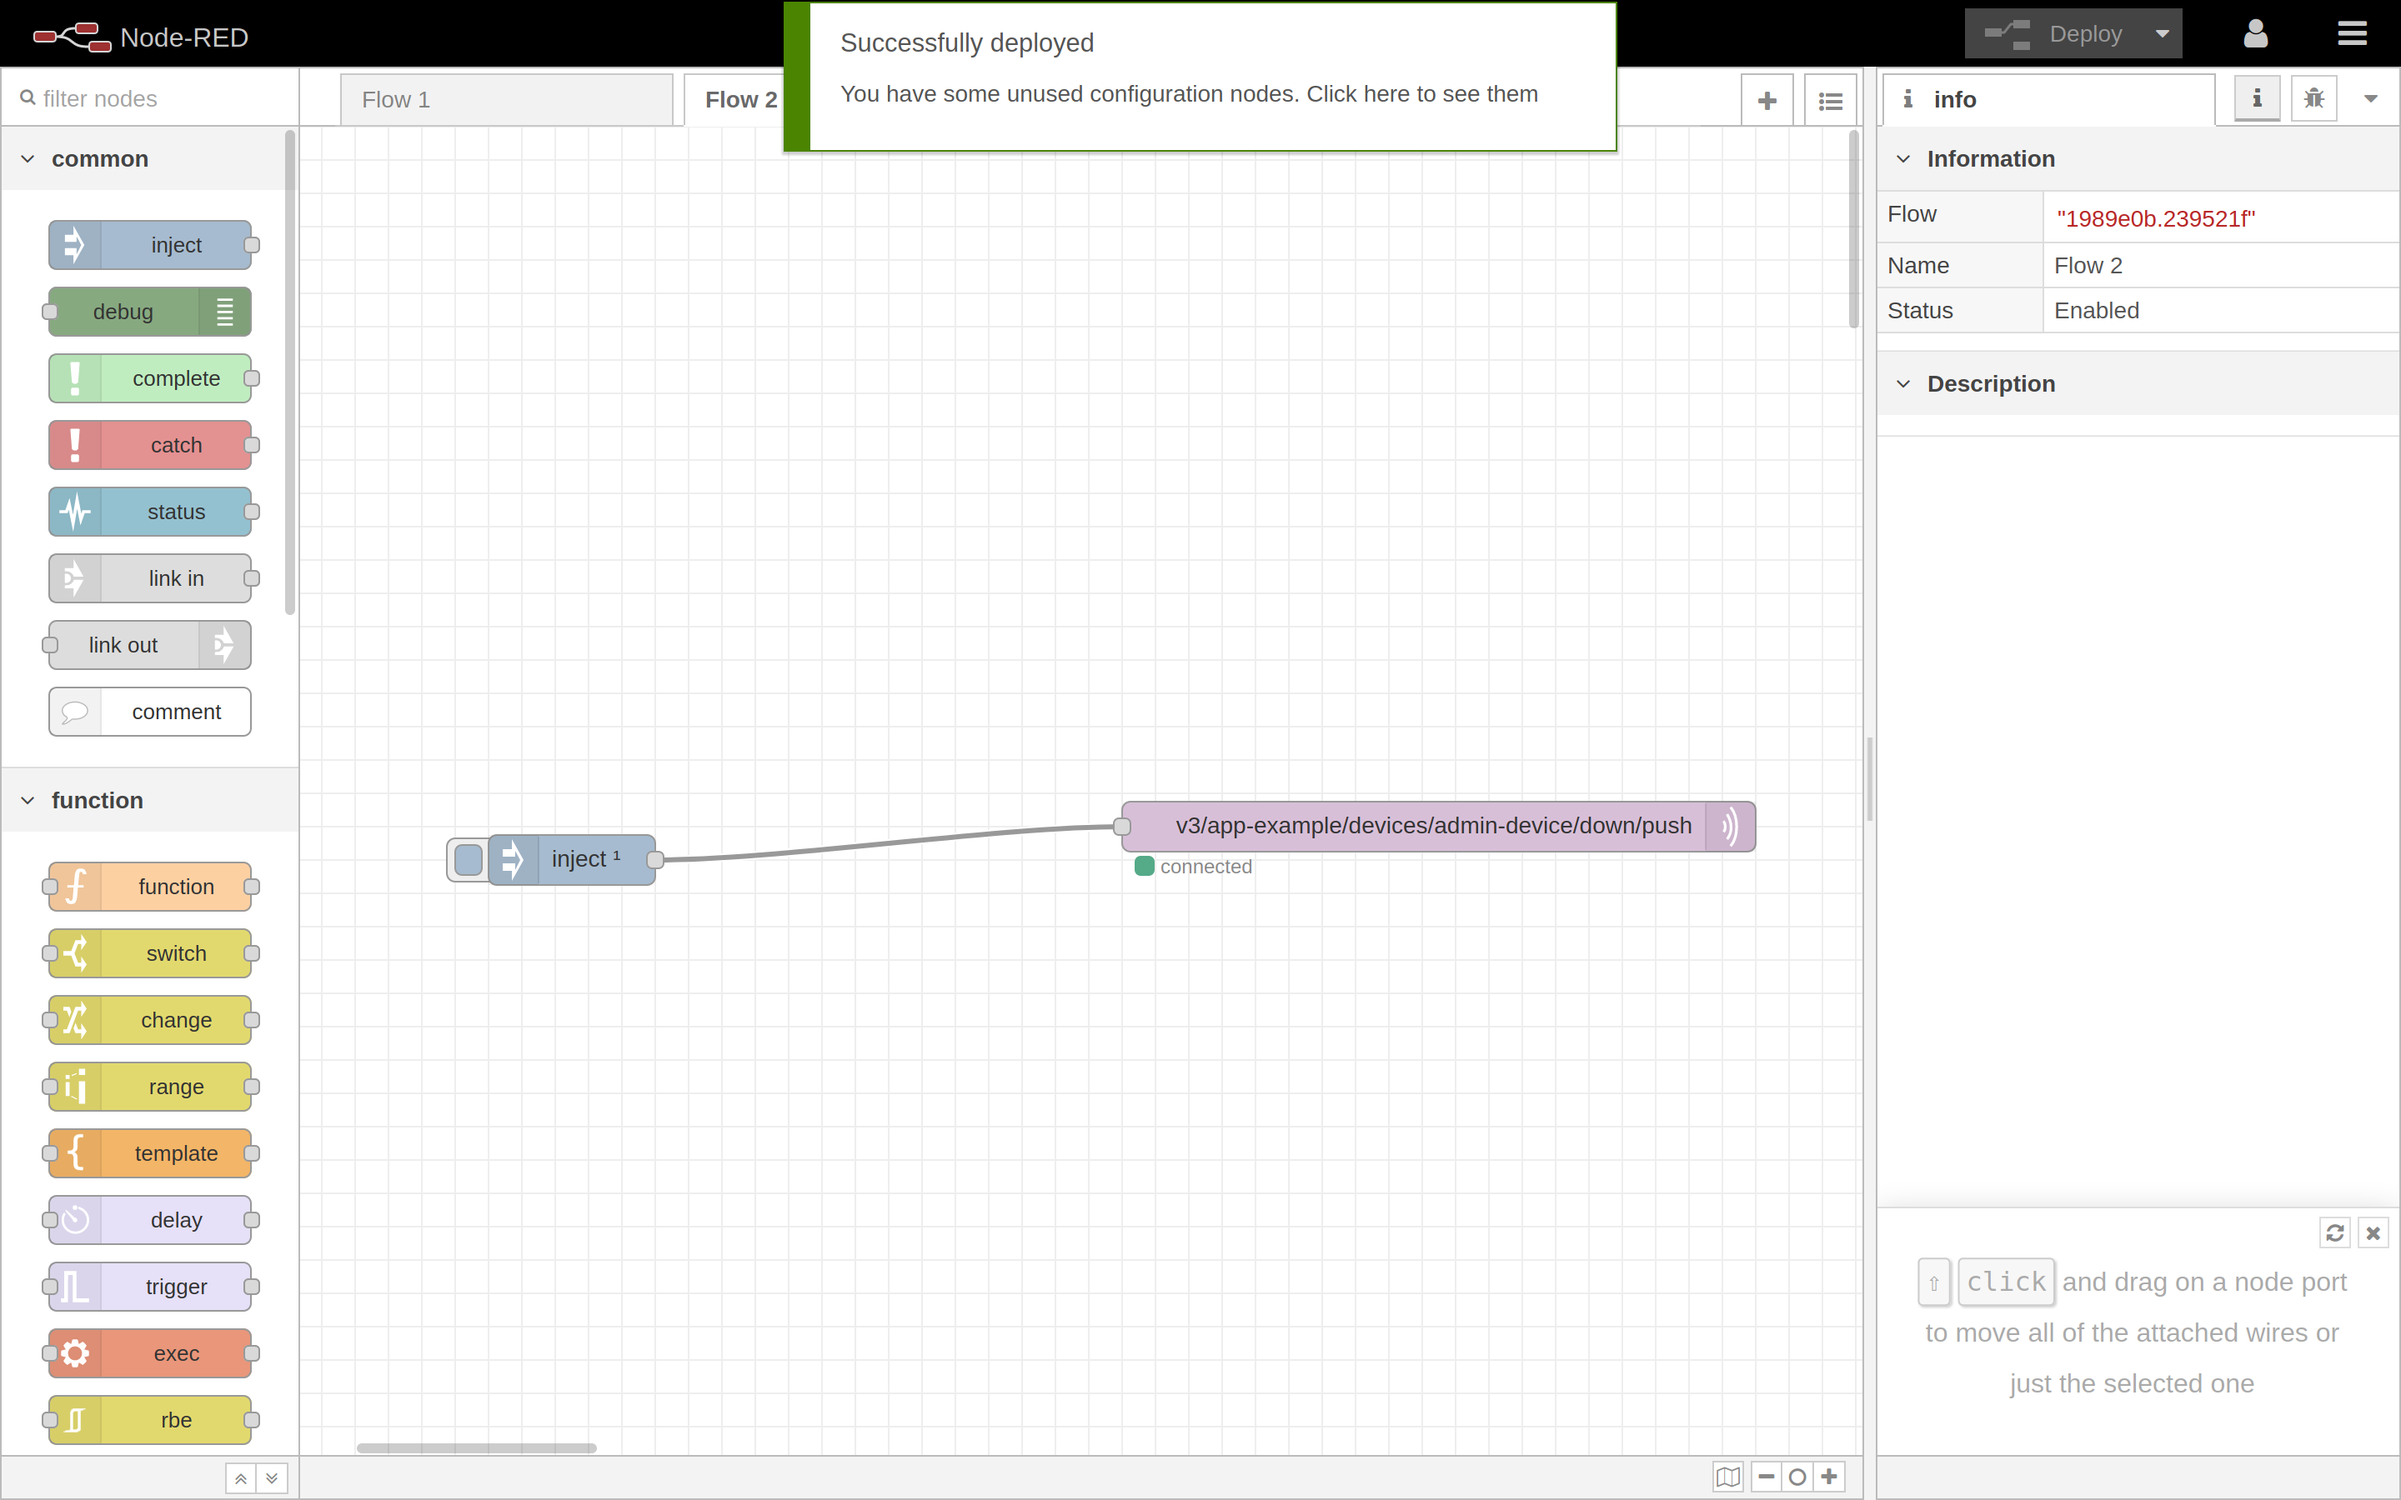
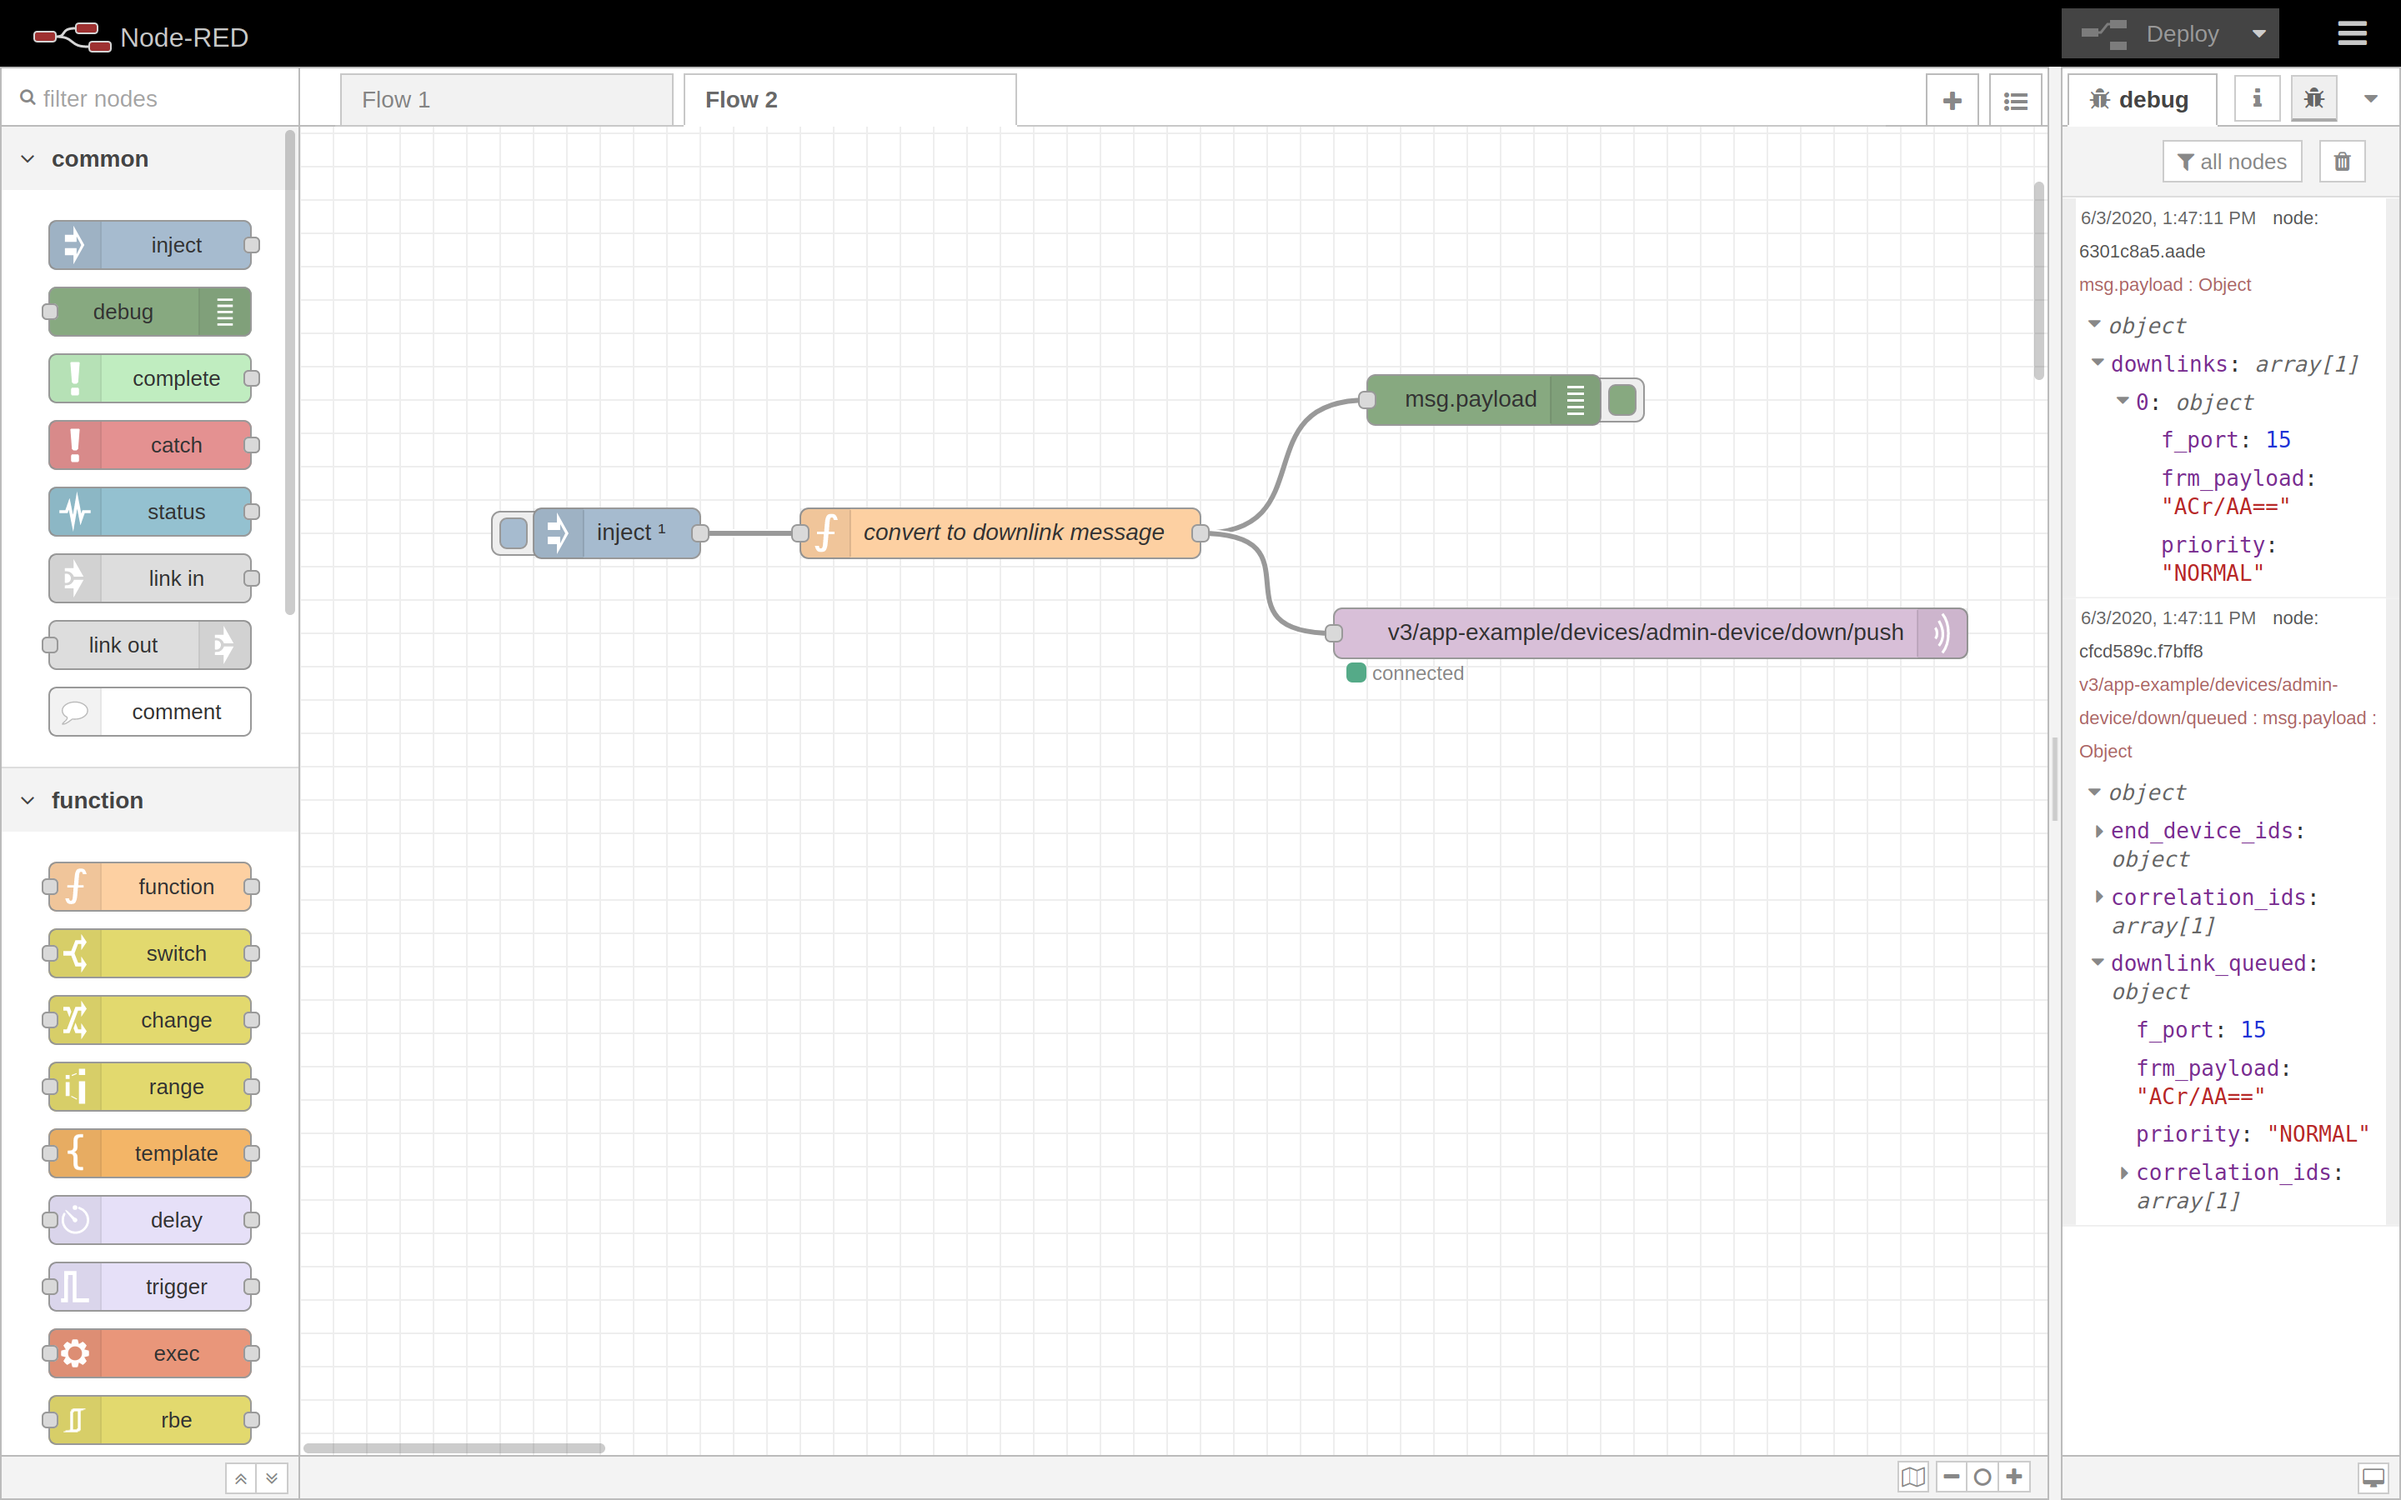
doc: Add bulletpoints, fix and shorten the text

diff --git a/doc/content/integrations/node-red/receive/_index.md b/doc/content/integrations/node-red/receive/_index.md
@@ -8,28 +8,38 @@ This section follows the process of setting up a flow which subscribes and liste
 
 ## Configure MQTT In Node
 
-Find the **mqtt in** node in the library section and place it on the flow dashboard. This node connects to the MQTT broker and subscribes to messages from the specified topic. Double-click on the node to configure its properties.
+1. Place the **mqtt in** node on the dashboard. Double-click on the node to configure its properties.
 
-{{< figure src="mqtt_in_node_properties.png" alt="mqtt in node properties" >}}
+2. In the **Server** dropdown menu, select **Add new mqtt-broker** and click on the button besides to edit it. 
 
-In the **Server** dropdown menu, select **Add new mqtt-broker** and click on the button besides to edit it. 
+3. In the **Connection** tab, under **Server**, provide the MQTT Server address from {{% tts %}} Console. 
+
+>Note: in this example, TLS-secured connection is to be established, so the **Port** value is set to 8883. In this case you should also check the **Enable secure (SSL/TLS) connection** box.
 
 {{< figure src="mqtt_in_node_connection.png" alt="Configuring MQTT Server connection information" >}}
 
-In the **Connection** tab, under **Server**, provide the MQTT Server address from {{% tts %}} Console. The **Port** value depends on whether the connection is to be set up as a secure one or not. In this example, TLS is used, so the **Port** value is set to 8883. In this case you should also check the **Enable secure (SSL/TLS) connection** box.
+4. In the **Security** tab, enter the **Username** and **Password** according to the values in {{% tts %}} Console.
 
 {{< figure src="mqtt_in_node_security.png" alt="Configuring MQTT Server credentials" >}}
 
-In the **Security** tab, enter the **Username** and **Password** according to the values in {{% tts %}} Console.
+5. Go back to **Properties** and set the **Topic** value to `#` (to listen to all topics). 
 
-Under **Topic**, a topic to listen to can be specified. For testing purposes, we will set the value to "#" (all topics). The **QoS** value can be selected from the listed options, as well as the **Output**. In this example, we want to see each message as **a parsed JSON object**. A full list of topics that you can subscribe to is mentioned in [MQTT Server]({{< ref "/integrations/mqtt" >}}) guide.
+>Note: a full list of topics that you can subscribe to is mentioned in [MQTT Server]({{< ref "/integrations/mqtt" >}}) guide. 
 
-Next, add two **debug** nodes to the flow and connect both of them to the **mqtt in** node. One debug node will listen to the events, while the other will listen to published messages. To make this happen, set the **Output** parameter for the first debug node configuration to **complete msg object** value, and to **msg.payload** for the other.
+6. Select the **QoS** value from the listed options and set **Output** parameter to **a parsed JSON object**. 
 
-To listen to uplink messages coming from end devices, subscribe to `v3/{application_id}/devices/{device_id}/up`, where `{application_id}` and `{device_id}` are the application and device you wish to connect to.
+## Configure Debug Nodes
+
+1. Add two **debug** nodes and connect both to the **mqtt in** node. One debug node will listen to the events, while the other will listen to published messages. 
+
+>Note: you can also subscribe to `v3/{application_id}/devices/{device_id}/up` to only listen to uplink messages coming from end devices, as mentioned in [MQTT Server]({{< ref "/integrations/mqtt" >}}) guide.
+
+2. Set the **Output** parameters of these nodes to **complete msg object** and **msg.payload**.
+
+## Deploy
+
+1. Click on **Deploy** in the upper right corner. If the setup is correct, **connected** status will be reported below the **mqtt in** node. 
+
+2. Click on **debug** icon in the upper right corner to see the published event messages and their payloads in JSON format.
 
 {{< figure src="receive_uplink_flow.png" alt="Final flow scheme" >}}
-
-After setup, click on **Deploy** in the upper right corner.
-
-If the setup is correct, **connected** will be reported below the **mqtt in** node. In the upper right corner, click on the **debug** icon to see the event messages and their payloads in JSON format.

diff --git a/doc/content/integrations/node-red/send/_index.md b/doc/content/integrations/node-red/send/_index.md
@@ -4,32 +4,50 @@ description: ""
 weight: 3
 ---
 
-This section follows the process of setting up a flow which publishes messages to a certain topic that the MQTT Server is subscribed to.
+This section explains the process of setting up a flow which publishes messages to a certain topic that the MQTT Server is subscribed to.
 
 Doing this schedules downlink messages to be sent to your end device. This section follows the example for publishing downlink traffic in [MQTT Server]({{< ref "/integrations/mqtt" >}}) guide.
 
 ## Configure MQTT Out Node
 
-Find the **mqtt out** node in the Node-RED library and place it on the dashboard. This node connects to the MQTT broker and publishes messages. Configure the **Server** options with the same settings as used in the [Receive Events and Messages]({{< ref "/integrations/node-red#receive-events-and-messages" >}}) section before.
+1. Place the **mqtt out** node on the dashboard. 
 
-As stated in [MQTT Server]({{< ref "/integrations/mqtt" >}}) guide, topic `v3/{application_id}/devices/{device_id}/down/push` can be used for scheduling downlink messages. Choose a **QoS** from listed options and state whether you want the MQTT Server to retain messages. 
+2. Configure the **Server** options with the same settings as in the [Receive Events and Messages]({{< ref "/integrations/node-red#receive-events-and-messages" >}}) section.
+
+3. Set **Topic** to `v3/{application_id}/devices/{device_id}/down/push` to schedule downlink messages (as stated in [MQTT Server]({{< ref "/integrations/mqtt" >}}) guide). 
+
+4. Choose a **QoS** from listed options and state whether you want the MQTT Server to retain messages. 
 
 {{< figure src="mqtt_out_node_properties.png" alt="mqtt out node properties" >}}
 
-Further, find and place the **inject** node on the dashboard. This node injects a message into a flow and can be triggered manually, but it is also possible to define regular intervals between the automatic injections. Double-click on the **inject** node to configure its properties. The **Payload** field can have different formats - in this example, JSON is used. Expand the **Payload** field and enter this:
+## Configure Inject Node
 
-```json
-{
-  "downlinks": [{
-    "f_port": 15,
-    "frm_payload": "vu8=",
-    "priority": "NORMAL"
-  }]
+1. Place the **inject** node on the dashboard. Double-click on the node to configure its properties. 
+
+2. Choose **buffer** under **Payload** and enter the payload you wish to send. 
+
+3. Define the period between the automatic injections if you want them, or choose **none** for **Repeat** if you wish to inject messages manually.
+
+{{< figure src="inject_node_properties.png" alt="inject node properties" >}}
+
+## Configure Function Node and Deploy
+
+Next, you have to configure a **function** node, which converts previously defined payload to a downlink message with Base64 encoded payload.
+
+1. Place the **function** node with the following structure on dashboard:
+
+```bash
+return {
+  "payload": {
+    "downlinks": [{
+      "f_port": 15,
+      "frm_payload": msg.payload.toString('base64'),
+      "priority": "NORMAL"
+    }]
+  }
 }
 ```
 
-in order to schedule a downlink message with base64 encoded payload `vu8=`. State the period between the automatic injections if you want them or choose **None** for **Repeat** if you do not. 
+2. Connect the nodes and click **Deploy**. If the setup is correct, below the **mqtt out** node **connected** status will be reported and downlink messages will begin sending to your end device.
 
-Next, connect the nodes and click **Deploy**. If the setup is correct, below the **mqtt out** node **connected** status will be reported and downlink messages will begin sending to your end device.
-
-{{< figure src="send_downlink_flow.png" alt="mqtt out node properties" >}}
+{{< figure src="send_downlink_flow.png" alt="send downlink flow" >}}

diff --git a/doc/content/integrations/node-red/setup/_index.md b/doc/content/integrations/node-red/setup/_index.md
@@ -14,23 +14,17 @@ This section describes how to setup a Node-RED server and prepare to connect it 
 
 ## Setup
 
-Run Node-RED by using the following command in the terminal:
-
-```bash
-$ node-red 
-```
-
-With Node-RED running, navigate to `https://localhost:1880` (or the public  address of your Node-RED instance).
-
-In your web browser, you should see something like:
+Run Node-RED and navigate to `http://localhost:1880` (or the public  address of your Node-RED instance). In your web browser, you should see something like:
 
 {{< figure src="nodered_dashboard.png" alt="Node-RED dashboard" >}}
 
-On the left side, you can see various types of nodes that can be used in order to build flows. In this guide, only a few simple built-in nodes are used. All nodes can be found in the [Node-RED library](https://flows.nodered.org/).
+On the left side, you can see various types of nodes that can be used in order to build flows. All nodes can be found in the [Node-RED library](https://flows.nodered.org/).
 
-{{% tts %}} Console provides the connection information needed for completing this integration. In the Console, click **Applications** and choose the application you want to connect to Node-RED.
+{{% tts %}} Console provides the connection information needed for completing this integration. 
 
-Click **Integrations** in the left hand panel of the Console, and the **MQTT** submenu to view the MQTT server info:
+1. In the Console, click **Applications** and choose the application you want to connect to Node-RED. 
+
+2. Click **Integrations** in the left hand panel of the Console, and the **MQTT** submenu to view the MQTT Server info:
 
 {{< figure src="console_info.png" alt="MQTT Server connection information" >}}
 

diff --git a/doc/content/integrations/node-red/_index.md b/doc/content/integrations/node-red/_index.md
@@ -5,6 +5,6 @@ description: ""
 
 [Node-RED](https://nodered.org/) is a free, JavaScript-based development tool for visual programming, developed to ease the process of wiring together hardware devices, APIs and online services.
 
-The MQTT server that is exposed by {{% tts %}} can be connected to Node-RED. This integration allows setting up a Node-RED flow that listens to events and messages sent by end devices. It is also possible to send messages to the end devices.
+The MQTT server that is exposed by {{% tts %}} can be connected to Node-RED. This integration allows setting up a Node-RED flow that listens to events and uplink messages, and it is also possible to schedule downlink messages.
 
 <!--more-->
